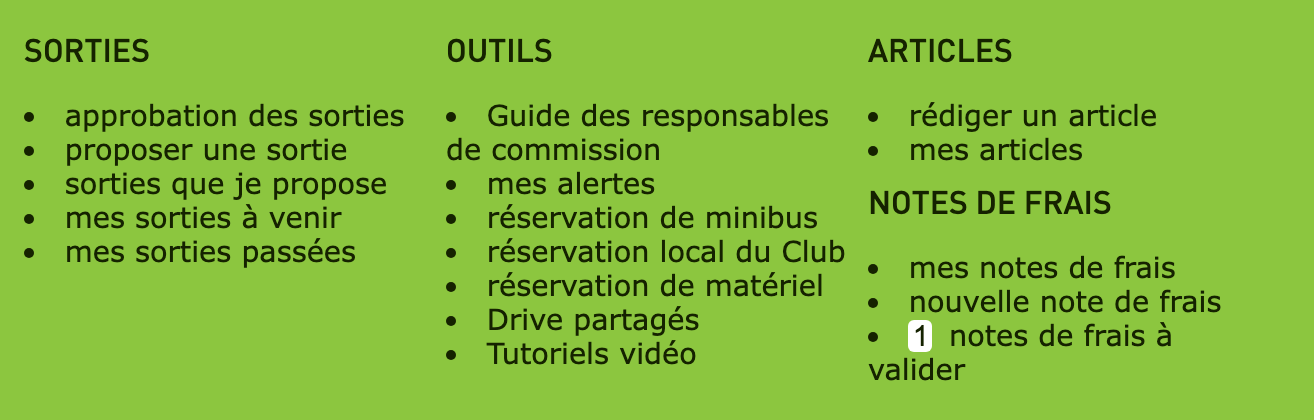
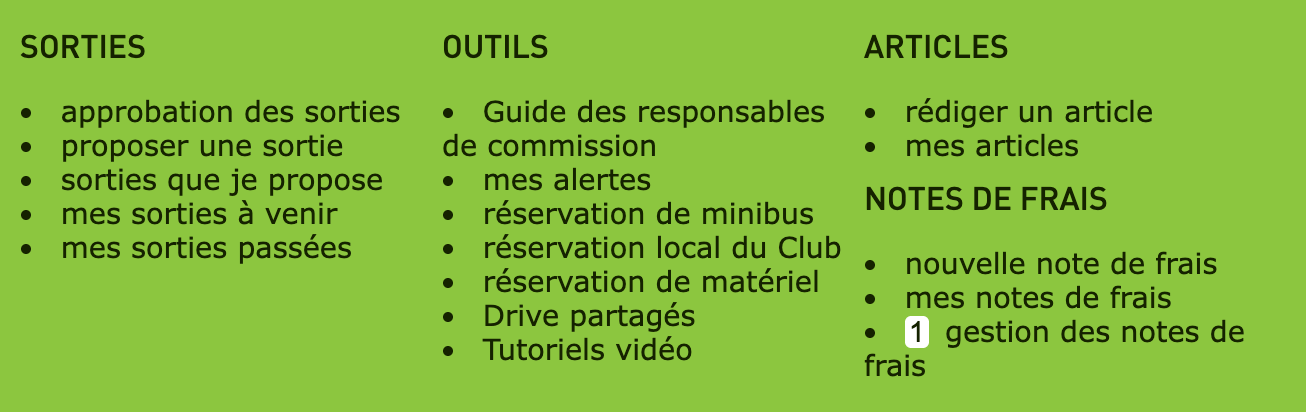
feat(notes-de-frais): retours de la recette : menu, « gestion des notes de frais », brouillons hors délai, publication qui vaut validation
- Menu dans l'ordre de celui des articles : « nouvelle note de frais »,
  « mes notes de frais », puis « gestion des notes de frais » (ex « notes
  de frais à valider ») : la page montre aussi les notes déjà traitées.
  Titre de la page et fil d'Ariane renommés de même.
- « Mes notes de frais » ne liste plus les brouillons de sortie dont le
  délai est passé : la page d'une sortie crée le brouillon dès qu'un
  encadrant l'ouvre, et il proposait « Reprendre » sur une note qui ne
  peut plus partir. Filtré dans l'API, pour que la pagination et le
  total restent justes ; rien n'est supprimé.
- Au choix « Sortie » de la première étape : « si la sortie a été
  publiée » quand aucun rôle n'a le droit evt_legal_accept dans la
  matrice (la publication vaut alors validation), « si la sortie a été
  validée par la présidence » sinon.

Captures du menu et de la page de gestion refaites.

diff --git a/assets/notes-de-frais/src/components/PremiereEtape.vue b/assets/notes-de-frais/src/components/PremiereEtape.vue
@@ -14,8 +14,8 @@
         <a :href="sortie.sortiesPassees" class="tw-font-medium tw-text-sky-700 hover:tw-underline">mes sorties passées</a>.
       </p>
       <p>
-        Elle est ouverte aux rôles encadrant, co-encadrant et initiateur stagiaire de la sortie, si la sortie a été validée par la présidence, pendant
-        {{ sortie.delaiJours }} jours après sa fin.
+        Elle est ouverte aux rôles encadrant, co-encadrant et initiateur stagiaire de la sortie,
+        {{ sortie.valideeParLaPresidence ? "si la sortie a été validée par la présidence" : "si la sortie a été publiée" }}, pendant {{ sortie.delaiJours }} jours après sa fin.
       </p>
       <p>
         Vous ne voyez pas le bouton ?

diff --git a/assets/notes-de-frais/src/types.ts b/assets/notes-de-frais/src/types.ts
@@ -37,6 +37,8 @@ export interface DonneesInitiales {
 /** Une note de sortie se fait depuis la sortie : ce que la page en dit à qui choisit « Sortie ». */
 export interface ConditionsNoteDeSortie {
   delaiJours: number;
+  /** Faux quand aucun rôle n'a ce droit : la publication vaut alors validation. */
+  valideeParLaPresidence: boolean;
   sortiesPassees: string;
   /** Formulaire de signalement du site, si le bouton manque sur la sortie. */
   signalement: string;

diff --git a/assets/notes-de-frais/src/DetailNote.vue b/assets/notes-de-frais/src/DetailNote.vue
@@ -216,7 +216,7 @@ function refuser() {
 <template>
   <div class="main-type">
     <p class="mini">
-      <a v-if="donnees.estValideur && !donnees.estDemandeur" :href="URL_LISTE">Notes de frais à valider</a>
+      <a v-if="donnees.estValideur && !donnees.estDemandeur" :href="URL_LISTE">Gestion des notes de frais</a>
       <a v-else :href="URL_MES_NOTES">Mes notes de frais</a>
     </p>
     <h1>{{ note?.objet ?? "Note de frais" }}</h1>

diff --git a/assets/notes-de-frais/src/AValider.vue b/assets/notes-de-frais/src/AValider.vue
@@ -9,7 +9,7 @@ const URL_LISTE = "/notes-de-frais/a-valider";
 
 <template>
   <div class="main-type">
-    <h1>{{ donnees.traitees ? "Notes de frais déjà traitées" : "Notes de frais à valider" }}</h1>
+    <h1>{{ donnees.traitees ? "Notes de frais déjà traitées" : "Gestion des notes de frais" }}</h1>
   </div>
 
   <div class="expense-report-form tw-mx-[30px] tw-mb-8 tw-font-sans">

diff --git a/src/Doctrine/ExpenseReportExtension.php b/src/Doctrine/ExpenseReportExtension.php
@@ -6,6 +6,7 @@ use ApiPlatform\Doctrine\Orm\Extension\QueryCollectionExtensionInterface;
 use ApiPlatform\Doctrine\Orm\Extension\QueryItemExtensionInterface;
 use ApiPlatform\Doctrine\Orm\Util\QueryNameGeneratorInterface;
 use ApiPlatform\Metadata\Operation;
+use App\Entity\Evt;
 use App\Entity\ExpenseReport;
 use App\Service\NoteDeFrais\NotesAValider;
 use App\Service\NoteDeFrais\ValideursNoteHorsSortie;
@@ -21,7 +22,7 @@ use Symfony\Bundle\SecurityBundle\Security;
  *   les notes de sortie, et les notes hors sortie qui attendent la trésorerie ou qu'elle a traitées, et celles
  *   qu'un responsable a refusées (compta-club)
  * - /notes-de-frais/a-valider : les notes hors sortie que l'utilisateur valide comme responsable (NotesAValider)
- * - Exclut les brouillons par défaut (sauf si inclure_brouillons=true)
+ * - Exclut les brouillons par défaut (sauf si inclure_brouillons=true) ; dans les siennes, jamais ceux d'une sortie hors délai
  * - Eager loading des relations pour éviter le problème N+1
  * - Tri par défaut : created_at DESC
  */
@@ -75,6 +76,7 @@ final class ExpenseReportExtension implements QueryCollectionExtensionInterface,
         $filters = $context['filters'] ?? [];
 
         // 1. Filtrage par utilisateur, sauf sur la liste « à valider » et celle de compta-club
+        $sesNotes = false;
         if ('/notes-de-frais/a-valider' === $operation?->getUriTemplate()) {
             $this->notesAValider->restreindre($queryBuilder, $rootAlias, $filters);
         } elseif ('/admin/notes-de-frais' === $operation?->getUriTemplate()) {
@@ -82,6 +84,7 @@ final class ExpenseReportExtension implements QueryCollectionExtensionInterface,
         } elseif ($user) {
             $queryBuilder->andWhere(sprintf('%s.user = :current_user', $rootAlias))
                 ->setParameter('current_user', $user);
+            $sesNotes = true;
         }
 
         // 2. Exclure les brouillons par défaut (sauf si inclure_brouillons=true)
@@ -90,11 +93,30 @@ final class ExpenseReportExtension implements QueryCollectionExtensionInterface,
         if (!$includeDrafts) {
             $queryBuilder->andWhere(sprintf('%s.status != :draft_status', $rootAlias))
                 ->setParameter('draft_status', ExpenseReportStatusEnum::DRAFT->value);
+        } elseif ($sesNotes) {
+            $this->sansBrouillonDeSortieHorsDelai($queryBuilder, $rootAlias);
         }
 
         // 3. Tri par défaut : plus récentes en premier
         // Les index créés dans la migration optimiseront ce tri
         $queryBuilder->orderBy(sprintf('%s.createdAt', $rootAlias), 'DESC');
+    }
+
+    /**
+     * La page d'une sortie crée le brouillon de l'encadrant dès qu'il l'ouvre : passé le délai
+     * (Evt::isExpenseReportOpen), il ne peut plus partir et n'a rien à faire dans « Mes notes de frais ».
+     */
+    private function sansBrouillonDeSortieHorsDelai(QueryBuilder $queryBuilder, string $rootAlias): void
+    {
+        $queryBuilder
+            ->andWhere($queryBuilder->expr()->orX(
+                sprintf('%s.status != :brouillon', $rootAlias),
+                sprintf('%s.type != :sortie', $rootAlias),
+                'event.endDate >= :fin_au_plus_tot',
+            ))
+            ->setParameter('brouillon', ExpenseReportStatusEnum::DRAFT->value)
+            ->setParameter('sortie', ExpenseReportTypeEnum::SORTIE->value)
+            ->setParameter('fin_au_plus_tot', new \DateTimeImmutable(sprintf('-%d days', Evt::EXPENSE_REPORT_DEADLINE_DAYS)));
     }
 
     /**

diff --git a/tests/Api/NoteHorsSortieMesNotesTest.php b/tests/Api/NoteHorsSortieMesNotesTest.php
@@ -2,12 +2,14 @@
 
 namespace App\Tests\Api;
 
+use App\Entity\Evt;
+use App\Entity\ExpenseReport;
 use App\Entity\User;
 use App\Utils\Enums\ExpenseReportStatusEnum;
 
 /**
- * Données de la page « Mes notes de frais » : toutes les notes du demandeur, brouillons compris,
- * filtrables par type ; date d'envoi et valideurs d'une note hors sortie.
+ * Données de la page « Mes notes de frais » : toutes les notes du demandeur, brouillons compris
+ * sauf ceux d'une sortie hors délai, filtrables par type ; date d'envoi et valideurs d'une note hors sortie.
  */
 class NoteHorsSortieMesNotesTest extends ExpenseReportApiTestCase
 {
@@ -24,6 +26,18 @@ class NoteHorsSortieMesNotesTest extends ExpenseReportApiTestCase
 
         $this->assertResponseStatus(200, $response);
         $this->assertEqualsCanonicalizing([$sortie->getId(), $brouillon->getId(), $envoyee->getId()], array_column($response['body']['data'], 'id'));
+    }
+
+    public function testUnBrouillonDeSortieHorsDelaiNePlusParait(): void
+    {
+        $this->noteDeSortieFinieIlYa(Evt::EXPENSE_REPORT_DEADLINE_DAYS + 1, ExpenseReportStatusEnum::DRAFT);
+        $envoyeeHorsDelai = $this->noteDeSortieFinieIlYa(Evt::EXPENSE_REPORT_DEADLINE_DAYS + 1, ExpenseReportStatusEnum::SUBMITTED);
+        $dansLeDelai = $this->noteDeSortieFinieIlYa(Evt::EXPENSE_REPORT_DEADLINE_DAYS - 1, ExpenseReportStatusEnum::DRAFT);
+
+        $response = $this->listerMesNotes($this->owner);
+
+        $this->assertEqualsCanonicalizing([$envoyeeHorsDelai->getId(), $dansLeDelai->getId()], array_column($response['body']['data'], 'id'));
+        $this->assertEquals(2, $response['body']['meta']['total']);
     }
 
     public function testLaListeSeFiltreParType(): void
@@ -85,6 +99,17 @@ class NoteHorsSortieMesNotesTest extends ExpenseReportApiTestCase
 
         $this->assertArrayNotHasKey('dateEnvoi', $lue['body']);
         $this->assertArrayNotHasKey('valideurs', $lue['body']);
+    }
+
+    private function noteDeSortieFinieIlYa(int $jours, ExpenseReportStatusEnum $status): ExpenseReport
+    {
+        $note = $this->createReport($this->em()->find(User::class, $this->owner->getId()), $status);
+        $this->em()->getConnection()->executeStatement(
+            'UPDATE caf_evt SET end_date = ? WHERE id_evt = (SELECT event_id FROM expense_report WHERE id = ?)',
+            [(new \DateTimeImmutable(sprintf('-%d days', $jours)))->format('Y-m-d H:i:s'), $note->getId()],
+        );
+
+        return $note;
     }
 
     private function listerMesNotes(User $utilisateur, array $filtres = []): array

diff --git a/tests/Api/NoteHorsSortiePageDeDemandeTest.php b/tests/Api/NoteHorsSortiePageDeDemandeTest.php
@@ -12,6 +12,17 @@ use App\Service\NoteDeFrais\ControlesNoteHorsSortie;
  */
 class NoteHorsSortiePageDeDemandeTest extends ExpenseReportApiTestCase
 {
+    /** @var list<array<string, mixed>> lignes de la matrice des droits retirées par un test, remises à la fin */
+    private array $droitsRetires = [];
+
+    protected function tearDown(): void
+    {
+        foreach ($this->droitsRetires as $ligne) {
+            $this->em()->getConnection()->insert('caf_usertype_attr', $ligne);
+        }
+        parent::tearDown();
+    }
+
     public function testSansRoleLaPageExpliqueAQuiLesNotesSontReservees(): void
     {
         $this->signin($this->adherent);
@@ -39,6 +50,18 @@ class NoteHorsSortiePageDeDemandeTest extends ExpenseReportApiTestCase
         $this->assertSame(Evt::EXPENSE_REPORT_DEADLINE_DAYS, $sortie['delaiJours']);
         $this->assertSame('/profil/sorties/prev', $sortie['sortiesPassees']);
         $this->assertStringStartsWith('https://forms.clickup.com/', $sortie['signalement']);
+    }
+
+    public function testAvecUnDroitDeValidationLaSortieDoitEtreValideeParLaPresidence(): void
+    {
+        $this->assertTrue($this->donnees($this->encadrant)['sortie']['valideeParLaPresidence']);
+    }
+
+    public function testSansDroitDeValidationUneSortiePublieeSuffit(): void
+    {
+        $this->retirerDeLaMatrice('evt_legal_accept');
+
+        $this->assertFalse($this->donnees($this->encadrant)['sortie']['valideeParLaPresidence']);
     }
 
     public function testLaPageSaitQuandLeDemandeurEstLeSeulResponsable(): void
@@ -69,6 +92,15 @@ class NoteHorsSortiePageDeDemandeTest extends ExpenseReportApiTestCase
     private function commissionsProposees(User $demandeur): array
     {
         return array_column($this->donnees($demandeur)['commissions'], null, 'id');
+    }
+
+    private function retirerDeLaMatrice(string $droit): void
+    {
+        $base = $this->em()->getConnection();
+        $lignes = 'FROM caf_usertype_attr WHERE right_usertype_attr = (SELECT id_userright FROM caf_userright WHERE code_userright = ?)';
+        $this->droitsRetires = $base->fetchAllAssociative('SELECT * ' . $lignes, [$droit]);
+        $this->assertNotEmpty($this->droitsRetires);
+        $base->executeStatement('DELETE ' . $lignes, [$droit]);
     }
 
     private function donnees(User $demandeur): array

diff --git a/src/Controller/NoteDeFraisController.php b/src/Controller/NoteDeFraisController.php
@@ -6,6 +6,7 @@ use App\Entity\Evt;
 use App\Entity\User;
 use App\Repository\CommissionRepository;
 use App\Repository\ExpenseReportRepository;
+use App\Repository\UserRightRepository;
 use App\Service\ExpenseReportCalculator;
 use App\Service\NoteDeFrais\ControlesNoteHorsSortie;
 use App\Service\NoteDeFrais\ValideursNoteHorsSortie;
@@ -55,7 +56,7 @@ class NoteDeFraisController extends AbstractController
     }
 
     #[Route(path: '/notes-de-frais/nouvelle', name: 'notes_de_frais_nouvelle', methods: ['GET'])]
-    public function nouvelle(Request $request, CommissionRepository $commissionRepository, ValideursNoteHorsSortie $valideurs, ControlesNoteHorsSortie $controles, ExpenseReportCalculator $calculator, Environment $twig, string $baseUrl): Response
+    public function nouvelle(Request $request, CommissionRepository $commissionRepository, ValideursNoteHorsSortie $valideurs, ControlesNoteHorsSortie $controles, ExpenseReportCalculator $calculator, UserRightRepository $droits, Environment $twig, string $baseUrl): Response
     {
         $this->pageDisponible();
 
@@ -96,6 +97,8 @@ class NoteDeFraisController extends AbstractController
                 // « Sortie » au premier choix : la note se fait depuis la sortie, sous ces conditions.
                 'sortie' => [
                     'delaiJours' => Evt::EXPENSE_REPORT_DEADLINE_DAYS,
+                    // Sans ce droit dans la matrice, la publication vaut validation (SortieController::sortieValidate).
+                    'valideeParLaPresidence' => $droits->hasAnyRoleWithRight('evt_legal_accept'),
                     'sortiesPassees' => $this->generateUrl('profil_sorties_prev'),
                     'signalement' => self::FORMULAIRE_DE_SIGNALEMENT,
                 ],

diff --git a/tests/Api/NoteHorsSortieResponsableAValiderTest.php b/tests/Api/NoteHorsSortieResponsableAValiderTest.php
@@ -7,7 +7,7 @@ use App\Utils\Enums\ExpenseReportStatusEnum;
 use Symfony\Component\DomCrawler\Crawler;
 
 /**
- * Liste « notes de frais à valider » d'un responsable : les notes hors sortie envoyées de ses
+ * Liste « gestion des notes de frais » d'un responsable : les notes hors sortie envoyées de ses
  * commissions, déjà traitées avec le filtre de statut. Son entrée du menu et les pastilles qui
  * comptent les notes en attente.
  */
@@ -179,6 +179,14 @@ class NoteHorsSortieResponsableAValiderTest extends ExpenseReportApiTestCase
         foreach ([[$this->encadrant, 0], [$this->responsable, 1]] as [$utilisateur, $entrees]) {
             $this->assertCount($entrees, $this->pageDuSite($utilisateur)->filter('a[href="/notes-de-frais/a-valider"]'));
         }
+    }
+
+    // Comme la rubrique des articles : rédiger, retrouver les siennes, puis gérer celles des autres.
+    public function testLeMenuSuitLOrdreDeCeluiDesArticles(): void
+    {
+        $liens = $this->pageDuSite($this->responsable)->filter('a[href="/notes-de-frais/nouvelle"], a[href="/notes-de-frais"], a[href="/notes-de-frais/a-valider"]');
+
+        $this->assertSame(['nouvelle note de frais', 'mes notes de frais', 'gestion des notes de frais'], $liens->each(static fn (Crawler $lien) => $lien->text()));
     }
 
     public function testLesPastillesComptentLesNotesAValider(): void

diff --git a/src/Service/NoteDeFrais/NotesAValider.php b/src/Service/NoteDeFrais/NotesAValider.php
@@ -13,7 +13,7 @@ use Symfony\Contracts\Service\ResetInterface;
 
 /**
  * Les notes hors sortie qu'un responsable peut traiter : celles des commissions dont il valide les
- * notes. La liste « notes de frais à valider » et le compteur du menu partagent cette seule
+ * notes. La liste « gestion des notes de frais » et le compteur du menu partagent cette seule
  * requête. Un gestionnaire n'y a rien de plus : la trésorerie travaille dans compta-club.
  */
 class NotesAValider implements ResetInterface

diff --git a/tests/Api/NoteHorsSortieAValiderTest.php b/tests/Api/NoteHorsSortieAValiderTest.php
@@ -6,7 +6,7 @@ use App\Entity\User;
 use App\Utils\Enums\ExpenseReportStatusEnum;
 
 /**
- * « Notes de frais à valider » ne donne rien de plus à un gestionnaire : la trésorerie travaille
+ * « Gestion des notes de frais » ne donne rien de plus à un gestionnaire : la trésorerie travaille
  * dans compta-club. Il n'y voit que les notes des commissions dont il est responsable.
  */
 class NoteHorsSortieAValiderTest extends ExpenseReportApiTestCase

diff --git a/docs/notes-de-frais.md b/docs/notes-de-frais.md
@@ -89,11 +89,11 @@ Ses décisions sont signées « la trésorerie » sur le site, dans les mails et
 
 ### Écrans
 
-Le menu adhérent gagne une rubrique « Notes de frais », pour ces rôles seulement. L'entrée « notes de frais à valider », avec son compteur, n'apparaît qu'aux responsables de commission. Un autre adhérent qui ouvre « Nouvelle note de frais » lit à qui les notes sont réservées ; « Mes notes de frais » lui reste ouverte, sans le bouton de nouvelle note : un demandeur qui a perdu son rôle y retrouve ses notes. Les mails mènent à la page de la note ou au formulaire de correction ; le fil d'Ariane de la page d'une note mène à « Mes notes de frais ».
+Le menu adhérent gagne une rubrique « Notes de frais », pour ces rôles seulement, dans le même ordre que celle des articles : « nouvelle note de frais », « mes notes de frais », puis « gestion des notes de frais ». Cette dernière entrée, avec son compteur, n'apparaît qu'aux responsables de commission. Un autre adhérent qui ouvre « Nouvelle note de frais » lit à qui les notes sont réservées ; « Mes notes de frais » lui reste ouverte, sans le bouton de nouvelle note : un demandeur qui a perdu son rôle y retrouve ses notes. Les mails mènent à la page de la note ou au formulaire de correction ; le fil d'Ariane de la page d'une note mène à « Mes notes de frais ».
 
 ![Menu adhérent d'un responsable de commission, avec la rubrique Notes de frais](images/notes-de-frais/hors-sortie-menu.png)
 
-Première étape du formulaire : type, commission, objet et date. Le type « Sortie » n'ouvre pas de formulaire : il explique qu'une note de sortie se fait depuis la sortie, à quelles conditions, avec un lien vers « mes sorties passées » et le formulaire de signalement du site. Sous la commission, le demandeur voit à qui sa note sera transmise : les responsables de la commission, nommés, ou la trésorerie.
+Première étape du formulaire : type, commission, objet et date. Le type « Sortie » n'ouvre pas de formulaire : il explique qu'une note de sortie se fait depuis la sortie, à quelles conditions (« si la sortie a été validée par la présidence » quand un rôle a ce droit dans la matrice des droits, « si la sortie a été publiée » sinon, puisque la publication vaut alors validation), avec un lien vers « mes sorties passées » et le formulaire de signalement du site. Sous la commission, le demandeur voit à qui sa note sera transmise : les responsables de la commission, nommés, ou la trésorerie.
 
 ![Première étape d'une note de formation](images/notes-de-frais/hors-sortie-premiere-etape.png)
 
@@ -101,13 +101,13 @@ Seconde étape : une ligne par dépense avec son justificatif, le total, le choi
 
 ![Seconde étape d'une note de formation](images/notes-de-frais/hors-sortie-seconde-etape.png)
 
-« Mes notes de frais » : toutes les notes du demandeur, de sortie comme hors sortie, filtrables par type, et le bouton « Nouvelle note de frais ». Pour chacune : où elle en est (« Brouillon », « Transmise à la commission », « Transmise à la trésorerie », « Validée », « Comptabilisée », « À corriger » avec le message du refus), et les liens « Reprendre » ou « Corriger ». Sous le montant, « dont X € remboursables » quand un plafond du club s'applique, et « Don au club » pour une note hors sortie. Le titre d'une note hors sortie ouvre sa page ; une note de sortie renvoie vers la page de sa sortie.
+« Mes notes de frais » : toutes les notes du demandeur, de sortie comme hors sortie, filtrables par type, sauf les brouillons de sortie dont le délai est passé (la page d'une sortie crée le brouillon dès que l'encadrant l'ouvre ; il ne pourrait plus partir), et le bouton « Nouvelle note de frais ». Pour chacune : où elle en est (« Brouillon », « Transmise à la commission », « Transmise à la trésorerie », « Validée », « Comptabilisée », « À corriger » avec le message du refus), et les liens « Reprendre » ou « Corriger ». Sous le montant, « dont X € remboursables » quand un plafond du club s'applique, et « Don au club » pour une note hors sortie. Le titre d'une note hors sortie ouvre sa page ; une note de sortie renvoie vers la page de sa sortie.
 
 ![Page Mes notes de frais](images/notes-de-frais/hors-sortie-mes-notes.png)
 
-« Notes de frais à valider » : les notes qui attendent le responsable dans ses commissions, leur nombre en tête (« 3 notes en attente pour Sorties familles. »), puis le lien « Notes déjà traitées ».
+« Gestion des notes de frais » : les notes qui attendent le responsable dans ses commissions, leur nombre en tête (« 3 notes en attente pour Sorties familles. »), puis le lien « Notes déjà traitées ».
 
-![Page Notes de frais à valider](images/notes-de-frais/hors-sortie-a-valider.png)
+![Page Gestion des notes de frais](images/notes-de-frais/hors-sortie-a-valider.png)
 
 Page d'une note vue par le responsable : dépenses, justificatifs et mot du demandeur, puis « Refuser » ou « Valider ». Après sa décision, ou si la note a déjà été traitée entre-temps (« Cette note a déjà été traitée. »), la page propose « Retour aux notes à valider ». Une fois la note passée, la page dit qui l'attend ou ce qui a été décidé. Le demandeur voit la même page, avec son choix sous l'en-tête (« Votre choix : remboursement. », « Votre choix : remboursement, X € selon les plafonds du club. » ou « Votre choix : don au club. ») ; le responsable ne le voit pas. Sur un brouillon ou une note à corriger, le demandeur y trouve aussi « Reprendre » ou « Corriger ».
 
